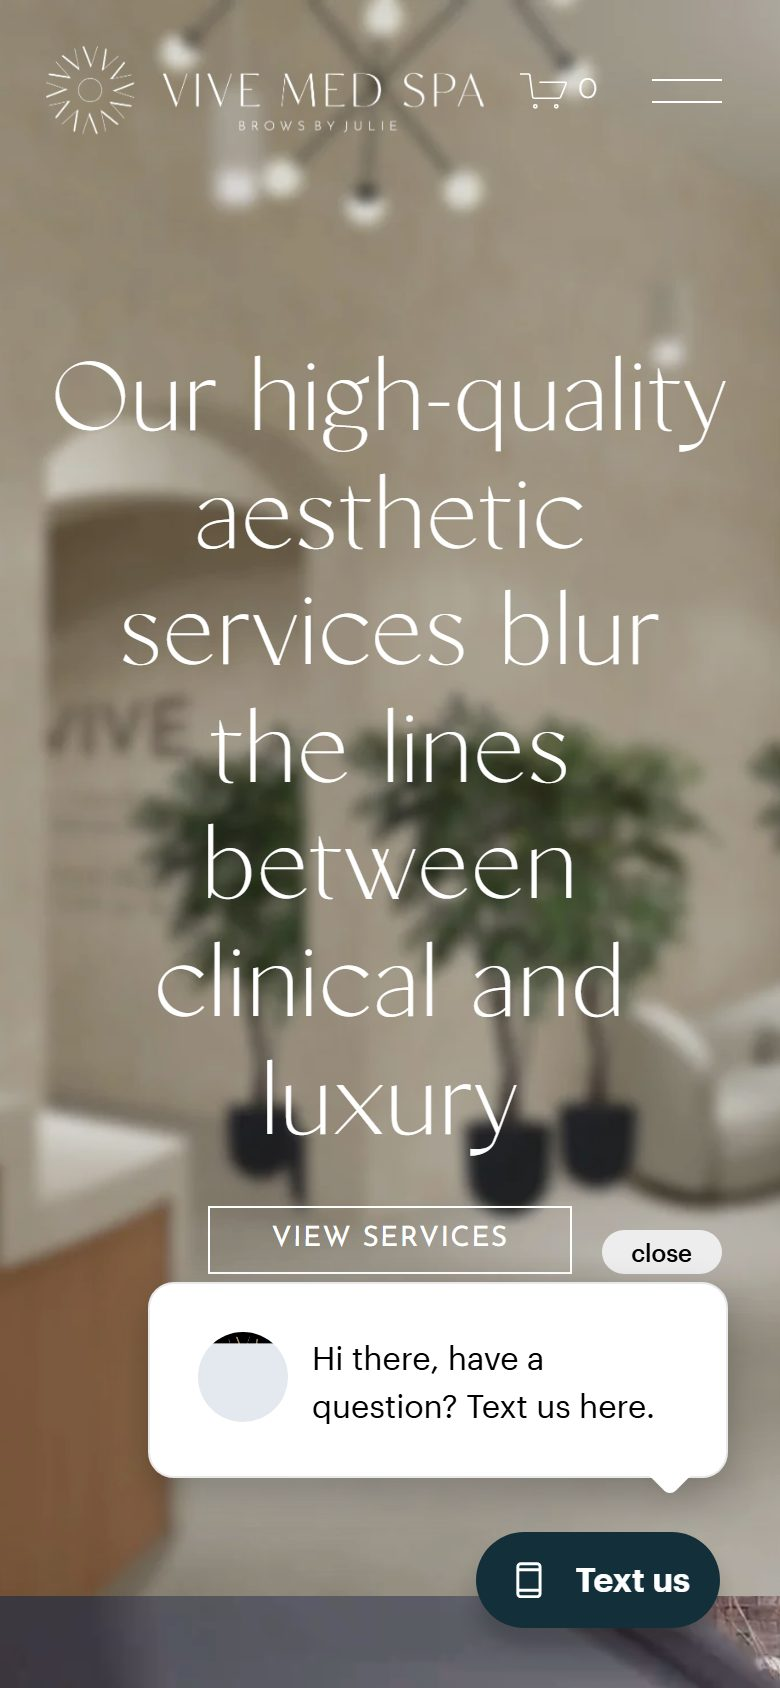
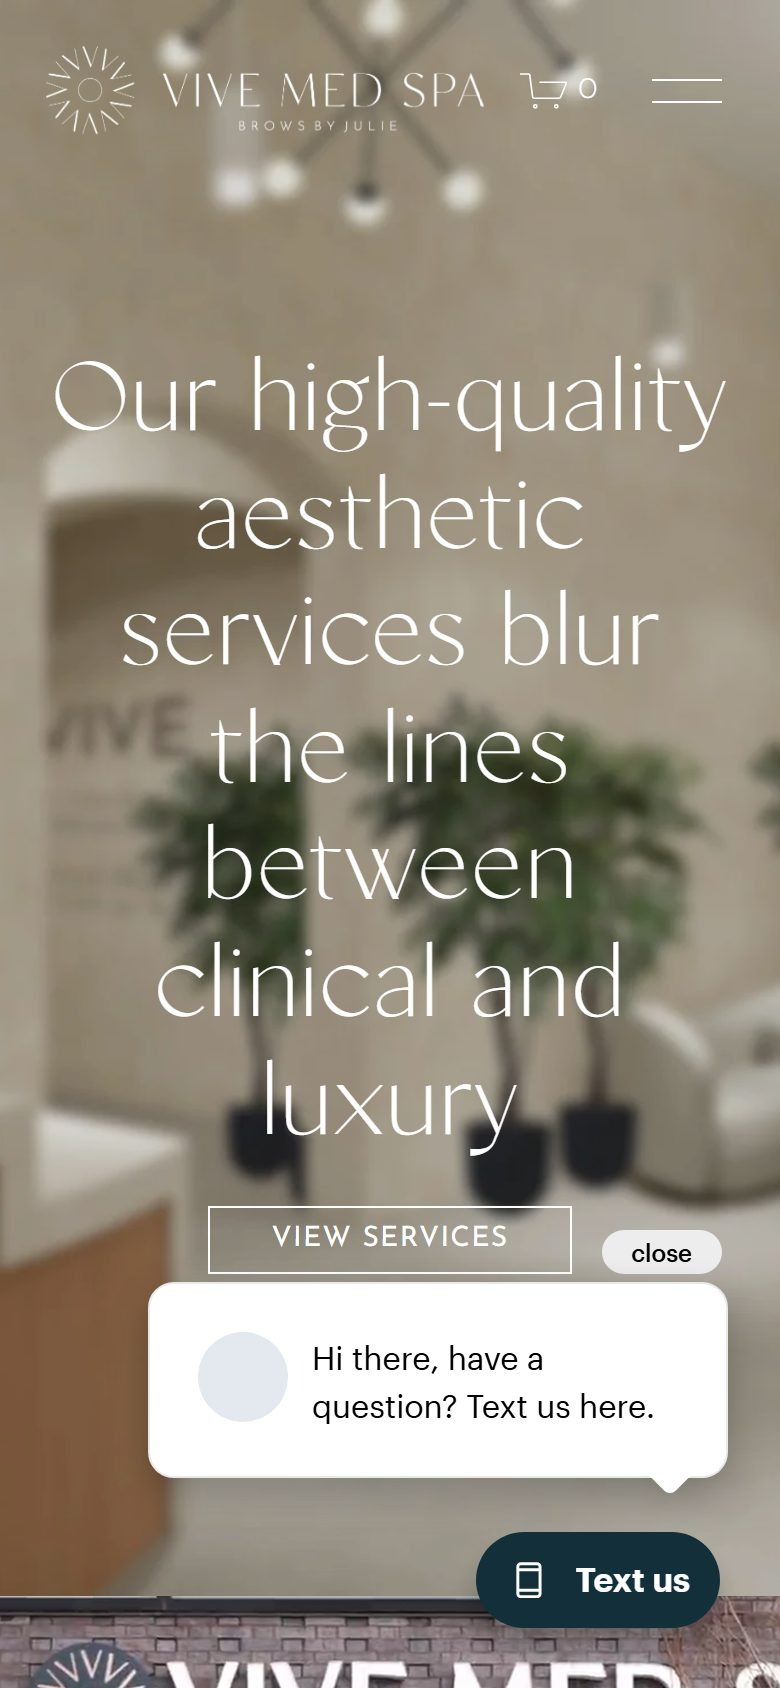
Reap Chrome's whole process tree, not just the parent.
child.kill() kills the launcher and leaves the renderer, GPU and
network-service children running. Across a day of captures that reached 252
orphaned chrome.exe processes, which exhausted the machine and stopped any
new Chrome launching — captures returned 0/2 shots and builds could not
connect at all. Both scripts now taskkill /T the tree and drop their
disposable profile, with cleanup wrapped so a locked profile can never fail
a capture that already succeeded.

prep-batch.mjs wrote its evidence to a hardcoded filename regardless of
input, so a six-clinic retry silently overwrote the evidence for a
twenty-five clinic batch. The output path now derives from the input.

Six Saturday captures that looked like six broken sites were this bug, not
the sites.

Changed region(s): [[0.0, 0.9242, 1.0, 1.0], [0.2769, 0.7701, 0.3385, 0.8009]]

diff --git a/audits/chapelhilldayspa/outreach-email.html b/audits/chapelhilldayspa/outreach-email.html
@@ -1,0 +1,124 @@
+<!doctype html>
+<html lang="en" xmlns:v="urn:schemas-microsoft-com:vml" xmlns:o="urn:schemas-microsoft-com:office:office">
+<head>
+<meta charset="utf-8">
+<meta name="viewport" content="width=device-width, initial-scale=1">
+<meta name="x-apple-disable-message-reformatting">
+<meta name="color-scheme" content="light">
+<meta name="supported-color-schemes" content="light">
+<title>your chat box opens by itself and says you're offline</title>
+<!--[if mso]><xml><o:OfficeDocumentSettings><o:PixelsPerInch>96</o:PixelsPerInch></o:OfficeDocumentSettings></xml><![endif]-->
+<style>
+  @media only screen and (max-width:620px){
+    .wrap{width:100% !important}
+    .pad{padding-left:22px !important;padding-right:22px !important}
+    .stack{display:block !important;width:100% !important;text-align:center !important}
+    .stack-img{margin:0 auto 12px !important}
+  }
+</style>
+</head>
+<body style="margin:0;padding:0;background:#efe9e1;-webkit-font-smoothing:antialiased;">
+
+<!-- Preheader: the grey line beside the subject in most inboxes. -->
+<div style="display:none;max-height:0;overflow:hidden;opacity:0;mso-hide:all;">
+  A short independent review of Medical Day Spa of Chapel Hill — yours to use whether or not we ever speak.
+</div>
+
+<table role="presentation" width="100%" cellpadding="0" cellspacing="0" border="0" style="background:#efe9e1;">
+<tr><td align="center" style="padding:28px 12px;">
+
+  <table role="presentation" class="wrap" width="600" cellpadding="0" cellspacing="0" border="0" style="width:600px;max-width:600px;background:#ffffff;border:1px solid #e2dbd1;">
+
+    <!-- Masthead -->
+    <tr><td class="pad" style="padding:26px 40px 20px;border-top:3px solid #a8894f;">
+      <table role="presentation" width="100%" cellpadding="0" cellspacing="0" border="0"><tr>
+        <td style="font-family:Georgia,'Times New Roman',serif;font-size:20px;letter-spacing:.02em;color:#2b2622;font-weight:normal;">
+          Aesthetic<span style="color:#a8894f;">Biz</span>
+        </td>
+        <td align="right" style="font-family:Arial,Helvetica,sans-serif;font-size:11px;letter-spacing:.09em;text-transform:uppercase;color:#8d8378;">
+          Independent website review
+        </td>
+      </tr></table>
+    </td></tr>
+
+    <tr><td class="pad" style="padding:0 40px;"><div style="height:1px;background:#e2dbd1;font-size:0;line-height:0;">&nbsp;</div></td></tr>
+
+    <!-- Proof of work: their own homepage as reviewed -->
+    <tr><td class="pad" align="center" style="padding:26px 40px 0;">
+      <img src="https://audit.aestheticbiz.site/chapelhilldayspa/images/audited-desktop.jpg" width="360" alt="Medical Day Spa of Chapel Hill homepage, as reviewed"
+           style="display:block;width:360px;max-width:100%;height:auto;border:1px solid #e2dbd1;">
+      <p style="margin:9px 0 0;font-family:Arial,Helvetica,sans-serif;font-size:11px;line-height:17px;color:#8d8378;">
+        Your homepage, reviewed 14 August 2026
+      </p>
+    </td></tr>
+
+    <!-- Body -->
+    <tr><td class="pad" style="padding:24px 40px 8px;font-family:Georgia,'Times New Roman',serif;">
+      <p style="margin:0 0 18px;font-size:16px;line-height:26px;color:#2b2622;">Hello,</p>
+      <p style="margin:0 0 16px;font-size:16px;line-height:26px;color:#3d3733;">I review aesthetic practice websites and I went through chapelhilldayspa.com this morning. This is a shorter note than I usually send, because there isn't much wrong with it — I scored it 71, one of the highest in this batch.</p>
+      <p style="margin:0 0 16px;font-size:16px;line-height:26px;color:#3d3733;">The one thing I'd change today: open your homepage on a phone and wait a few seconds. A chat window opens on its own, sits on top of the two buttons under &quot;Schedule Visit&quot;, and the first line reads &quot;We are currently offline&quot;. There's also a red badge showing 1 unread message, which suggests someone wrote to them personally.</p>
+      <p style="margin:0 0 16px;font-size:16px;line-height:26px;color:#3d3733;">So the first sentence a new patient reads from you is that nobody's there — printed over an award for being the best in town fourteen years running.</p>
+      <p style="margin:0 0 16px;font-size:16px;line-height:26px;color:#3d3733;">Set it to stay shut until it's clicked, and reword the offline message to still offer the booking link. Ten minutes.</p>
+      <p style="margin:0 0 16px;font-size:16px;line-height:26px;color:#3d3733;">What's genuinely ahead of the field, and I mean that: &quot;Voted Best of Chapel Hill 14 years in a row&quot; is the single most persuasive line I've read on any of these sites. Anyone can win once — the run of years is what convinces. Then 15+ years, 8,000+ patients, one locally owned boutique. Countable claims, not adjectives.</p>
+      <p style="margin:0 0 16px;font-size:16px;line-height:26px;color:#3d3733;">And your treatment writing actually teaches. Your subcision page explains that it releases the fibrous bands pulling the skin downward so scars lift while collagen rebuilds. That's a mechanism, not a benefit — it's how a patient decides they're a candidate, and almost nobody writes it that way.</p>
+      <p style="margin:0 0 16px;font-size:16px;line-height:26px;color:#3d3733;">Two smaller notes: you have no meta description, so Google is writing its own snippet for you from whatever it finds on the page. And no practitioner is named on that first screen — with 8,000 patients behind you, the person doing the injecting is probably a draw in their own right.</p>
+    </td></tr>
+
+    <!-- Report button -->
+    <tr><td class="pad" align="center" style="padding:14px 40px 30px;">
+      <table role="presentation" cellpadding="0" cellspacing="0" border="0"><tr>
+        <td bgcolor="#a8894f" style="mso-padding-alt:16px 34px;">
+          <a href="https://audit.aestheticbiz.site/chapelhilldayspa/" target="_blank"
+             style="display:inline-block;padding:16px 34px;font-family:Arial,Helvetica,sans-serif;font-size:15px;font-weight:bold;letter-spacing:.03em;color:#ffffff;text-decoration:none;">
+            Open the full report &rarr;
+          </a>
+        </td>
+      </tr></table>
+      <p style="margin:12px 0 0;font-family:Arial,Helvetica,sans-serif;font-size:12px;line-height:18px;color:#8d8378;">
+        Or paste this into your browser:<br>
+        <a href="https://audit.aestheticbiz.site/chapelhilldayspa/" style="color:#a8894f;text-decoration:underline;">https://audit.aestheticbiz.site/chapelhilldayspa/</a>
+      </p>
+    </td></tr>
+
+    <!-- Signature -->
+    <tr><td class="pad" style="padding:0 40px;"><div style="height:1px;background:#e2dbd1;font-size:0;line-height:0;">&nbsp;</div></td></tr>
+    <tr><td class="pad" style="padding:24px 40px 26px;background:#faf7f3;">
+      <table role="presentation" width="100%" cellpadding="0" cellspacing="0" border="0"><tr>
+        <td class="stack" width="76" valign="top" style="width:76px;">
+          <img class="stack-img" src="https://audit.aestheticbiz.site/_assets/ignatius.jpg" width="64" height="64" alt="Ignatius Ackermann"
+               style="display:block;width:64px;height:64px;border:1px solid #e2dbd1;">
+        </td>
+        <td class="stack" valign="middle" style="font-family:Arial,Helvetica,sans-serif;">
+          <div style="font-size:15px;font-weight:bold;color:#2b2622;">Ignatius Ackermann</div>
+          <div style="font-size:13px;line-height:20px;color:#6b625a;">
+            CRM Solutions &middot; building commercial platforms since 2001
+          </div>
+          <div style="font-size:13px;line-height:20px;margin-top:6px;">
+            <a href="https://wa.me/27761809799?text=Hi%20Ignatius%20%E2%80%94%20I've%20read%20the%20review%20for%20Medical%20Day%20Spa%20of%20Chapel%20Hill." target="_blank" style="color:#a8894f;text-decoration:none;font-weight:bold;">Reply on WhatsApp</a>
+            <span style="color:#b8ada1;">&nbsp;|&nbsp;</span>
+            <a href="https://www.aestheticbiz.site/" target="_blank" style="color:#a8894f;text-decoration:none;">www.aestheticbiz.site</a>
+          </div>
+        </td>
+      </tr></table>
+    </td></tr>
+
+    <!-- Legal footer -->
+    <tr><td class="pad" style="padding:18px 40px 24px;background:#efe9e1;font-family:Arial,Helvetica,sans-serif;font-size:11px;line-height:18px;color:#8d8378;">
+      <p style="margin:0 0 8px;">
+        Powered by <a href="https://www.crmsolutions.app/" target="_blank" style="color:#8d8378;text-decoration:underline;">CRM Solutions</a>
+        &middot; 104 Lothian Road, Parkhill, Durban North, KwaZulu-Natal 4051, South Africa
+      </p>
+      <p style="margin:0;">
+        You received this because your practice is publicly listed as an aesthetic provider. This is a one-off review, not a subscription.
+        <a href="mailto:unsubscribe@aestheticbiz.site?subject=Unsubscribe&amp;body=Please%20do%20not%20contact%20this%20address%20again."
+           style="color:#8d8378;text-decoration:underline;">Unsubscribe</a>
+        and you will not be contacted again.
+      </p>
+    </td></tr>
+
+  </table>
+
+</td></tr>
+</table>
+</body>
+</html>
